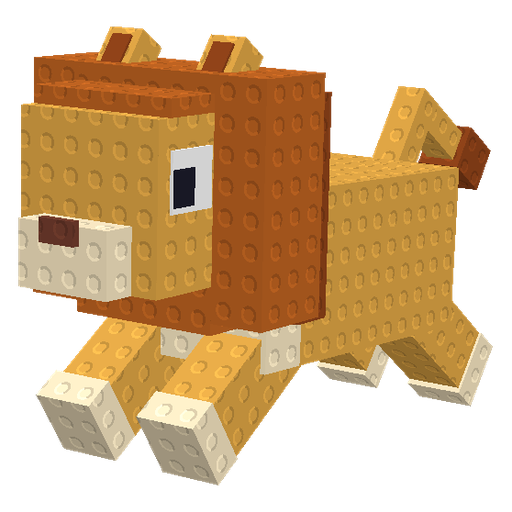
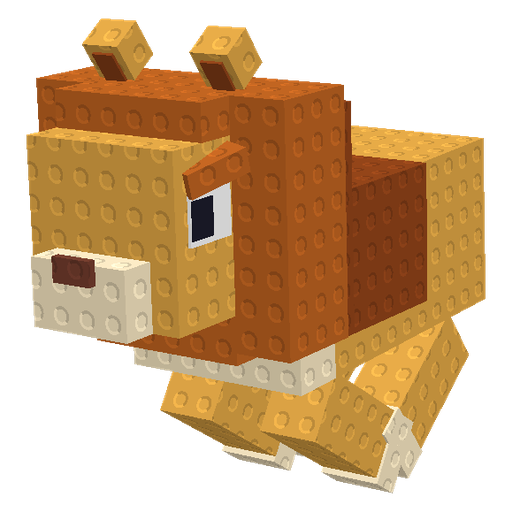
Lion: QM's Blockbench edit (brows, bigger mane down the back), converted --zyx, headshot
Claude-Session: https://claude.ai/code/session_01QJnTXBdSMkh6dn7YfxXPqd

diff --git a/tools/pet_headshots.py b/tools/pet_headshots.py
@@ -45,7 +45,7 @@ MODELS = {
     "Leviathan": "leviathan/Leviathan",
     "VolcanoTortoise": "volcano/VolcanoTortoise", "Firebird": "volcano/Firebird", "RockHog": "volcano/RockHog", "Rockworm": "volcano/Rockworm", "FireLobster": "volcano/FireLobster", "TRex": "jurassic/TRex", "BoneRex": "jurassic/BoneRex", "Ankylosaurus": "jurassic/Ankylosaurus", "PalmGuy": "jurassic/PalmGuy", "Spinosaurus": "jurassic/Spinosaurus", "Pterodactyl": "jurassic/Pterodactyl", "Raptor": "jurassic/Raptor", "LavaWhale": "volcano/LavaWhale", "Phoenix": "volcano/Phoenix",
 }
-ZYX = {"CrystalCentipede", "BoneRex", "KingCrab", "BlueCrab", "RoboShark", "IceGolem", "SnackYak", "Loong", "WarElephant", "VolcanoTortoise", "Firebird", "RockHog", "Rockworm", "Phoenix", "LavaWhale", "Lionfish", "TRex", "Spinosaurus", "MajesticUnicorn"}  # converted with --zyx (QM's hand-made multi-axis rotations)
+ZYX = {"CrystalCentipede", "BoneRex", "KingCrab", "BlueCrab", "RoboShark", "IceGolem", "SnackYak", "Loong", "WarElephant", "VolcanoTortoise", "Firebird", "RockHog", "Rockworm", "Phoenix", "LavaWhale", "Lionfish", "TRex", "Spinosaurus", "MajesticUnicorn", "Lion"}  # converted with --zyx (QM's hand-made multi-axis rotations)
 FACING = {"Kraken": 180}
 # Animals whose run makes a poor picture (the Snake stretches out thin, the Starfish
 # folds its arms up) keep their idle stance in the action style.

diff --git a/tools/lion_design.py b/tools/lion_design.py
@@ -9,7 +9,8 @@ QM's horse walk, the gallop the shared leap (a pounce).
 
     python3 tools/lion_design.py
 
-writes designs/world2/Lion.bbmodel and renders to /mnt/project-files/animals/lion/.
+wrote the first draft of designs/world2/Lion.bbmodel. QM has since edited that file in
+Blockbench (Oct 13): don't rerun this, it would overwrite QM's edit. Convert with --zyx.
 """
 
 import json
